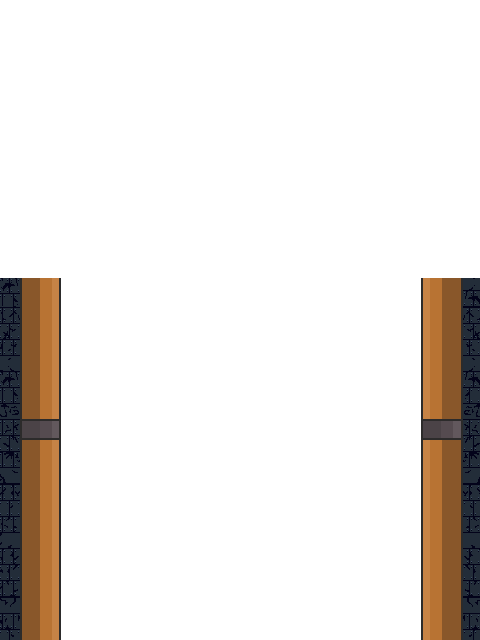
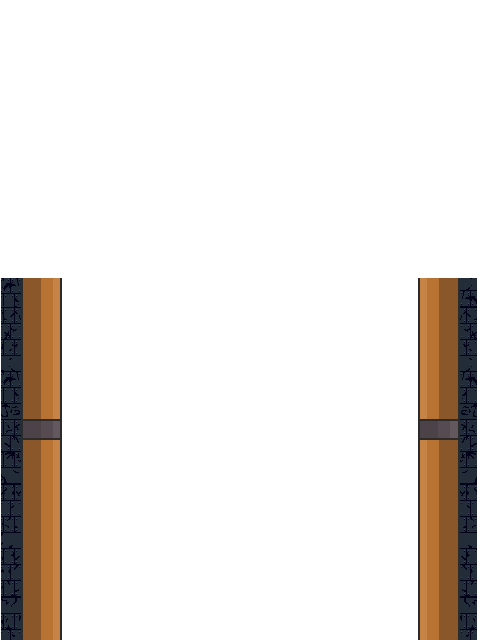
fix(bg): L2 pipe column alignment — pipes_top +1/-3 px, scripts/align_l2_pipes.py tool
Shift pipes_top.png left half +1 / right half -3 at x=240 split so its pipe
columns sit at identical x-ranges as pipes_mid.png (verified: mid left 23..59,
right 420..456 — top now matches). Eliminates the horizontal ghost where
PipesTop overlays PipesMid at the shaft cap zone.

Adds scripts/align_l2_pipes.py — measure + apply + revert + lock workflow,
reusable if alignment drifts again.

Changed region(s): [[0.8438, 0.4375, 1.0, 1.0], [0.0, 0.4375, 0.0625, 1.0]]

diff --git a/scripts/align_l2_pipes.py b/scripts/align_l2_pipes.py
@@ -1,0 +1,184 @@
+"""Align L2 shaft pipe columns across pipes_mid / pipes_top / pipes_bottom.
+
+Background: the three PNGs are stacked at x=0 in src/background.js (_drawL3Mid).
+Where they overlap vertically (cap zone, bottom zone), misaligned pipe columns
+between the PNGs show up as a horizontal ghost — the "double placement" seen
+in-game. pipes_mid.png is the reference (most visible surface); the other two
+should match its pipe x-ranges exactly.
+
+Usage:
+  python scripts/align_l2_pipes.py                    # measure + report only
+  python scripts/align_l2_pipes.py --apply            # shift top+bot to match mid; saves .bak
+  python scripts/align_l2_pipes.py --revert           # restore from .bak
+  python scripts/align_l2_pipes.py --lock             # delete .bak (confirm fix)
+"""
+from PIL import Image
+from pathlib import Path
+import shutil
+import sys
+
+ROOT = Path(__file__).resolve().parent.parent
+BG_DIR = ROOT / "PixelArt" / "backgrounds" / "level_2_shaft"
+PATHS = {
+    "mid": BG_DIR / "pipes_mid.png",
+    "top": BG_DIR / "pipes_top.png",
+    "bot": BG_DIR / "pipes_bottom.png",
+}
+# Scan row per image: pick a y where clean pipe content exists (no grey band,
+# no cap flange). Tuned from visual inspection of the three PNGs.
+SCAN_ROWS = {"mid": 400, "top": 500, "bot": 300}
+
+
+def is_orange(px):
+    r, g, b, a = px
+    if a < 128:
+        return False
+    if r < 120:
+        return False
+    if g >= r or b >= g:
+        return False
+    return (r - b) > 40
+
+
+def find_pipe_cols(img, y):
+    """Return list of (x_start, x_end) ranges of orange pipe columns at row y.
+
+    Merges gaps <=3 px so the dark ring band doesn't split a column.
+    """
+    w, _ = img.size
+    px = img.load()
+    hits = [is_orange(px[x, y]) for x in range(w)]
+    ranges = []
+    start = None
+    for x, h in enumerate(hits):
+        if h and start is None:
+            start = x
+        elif not h and start is not None:
+            ranges.append([start, x - 1])
+            start = None
+    if start is not None:
+        ranges.append([start, w - 1])
+    merged = []
+    for r in ranges:
+        if merged and r[0] - merged[-1][1] <= 3:
+            merged[-1][1] = r[1]
+        else:
+            merged.append(r)
+    return [tuple(r) for r in merged if r[1] - r[0] >= 4]
+
+
+def measure():
+    cols = {}
+    for k, p in PATHS.items():
+        img = Image.open(p).convert("RGBA")
+        y = SCAN_ROWS[k]
+        cols[k] = find_pipe_cols(img, y)
+        print(f"  {k}.png (scan y={y}): {cols[k]}")
+    print()
+
+    if len(cols["mid"]) != 2:
+        print(f"ERROR: expected 2 pipe columns in mid, got {len(cols['mid'])}")
+        return None
+    mL, mR = cols["mid"]
+    print(f"Reference (mid): left x={mL[0]}..{mL[1]} (w={mL[1]-mL[0]+1}), "
+          f"right x={mR[0]}..{mR[1]} (w={mR[1]-mR[0]+1})")
+
+    deltas = {}
+    for k in ("top", "bot"):
+        if len(cols[k]) != 2:
+            print(f"  {k}: expected 2 columns, got {len(cols[k])} — skipping")
+            continue
+        L, R = cols[k]
+        dL = L[0] - mL[0]
+        dR = R[0] - mR[0]
+        print(f"  {k}: left dx={dL:+d} (width {L[1]-L[0]+1} vs {mL[1]-mL[0]+1}), "
+              f"right dx={dR:+d} (width {R[1]-R[0]+1} vs {mR[1]-mR[0]+1})")
+        deltas[k] = (dL, dR)
+    return deltas
+
+
+def apply_shifts(deltas):
+    """Shift each half of top/bot horizontally to match mid's pipe x-positions.
+
+    Splits each image at x=W/2. Left half moves by -dL, right half by -dR.
+    Preserves outer brick patterns (they move along with their pipe).
+    """
+    for k in ("top", "bot"):
+        if k not in deltas:
+            continue
+        dL, dR = deltas[k]
+        if dL == 0 and dR == 0:
+            print(f"  {k}.png: already aligned — no change")
+            continue
+        src_path = PATHS[k]
+        bak_path = src_path.with_suffix(src_path.suffix + ".bak")
+        if not bak_path.exists():
+            shutil.copy2(src_path, bak_path)
+            print(f"  {k}.png: backup -> {bak_path.name}")
+        else:
+            print(f"  {k}.png: backup already exists at {bak_path.name}")
+
+        src = Image.open(src_path).convert("RGBA")
+        W, H = src.size
+        mid_x = W // 2
+        dst = Image.new("RGBA", src.size, (0, 0, 0, 0))
+        left_half = src.crop((0, 0, mid_x, H))
+        right_half = src.crop((mid_x, 0, W, H))
+        dst.paste(left_half, (-dL, 0), left_half)
+        dst.paste(right_half, (mid_x - dR, 0), right_half)
+        dst.save(src_path)
+        print(f"  {k}.png: shifted (left dx={-dL:+d}, right dx={-dR:+d}) and saved")
+
+
+def revert():
+    for k in ("top", "bot"):
+        src_path = PATHS[k]
+        bak_path = src_path.with_suffix(src_path.suffix + ".bak")
+        if bak_path.exists():
+            shutil.copy2(bak_path, src_path)
+            print(f"  {k}.png: restored from {bak_path.name}")
+        else:
+            print(f"  {k}.png: no backup found at {bak_path.name}")
+
+
+def lock():
+    for k in ("top", "bot"):
+        bak_path = PATHS[k].with_suffix(PATHS[k].suffix + ".bak")
+        if bak_path.exists():
+            bak_path.unlink()
+            print(f"  {k}.png: deleted {bak_path.name} (locked)")
+        else:
+            print(f"  {k}.png: no backup to delete")
+
+
+def main():
+    mode = "measure"
+    if "--apply" in sys.argv:
+        mode = "apply"
+    elif "--revert" in sys.argv:
+        mode = "revert"
+    elif "--lock" in sys.argv:
+        mode = "lock"
+
+    print(f"L2 pipe alignment — mode: {mode}\n")
+
+    if mode == "revert":
+        revert()
+        return 0
+    if mode == "lock":
+        lock()
+        return 0
+
+    print("Measuring pipe column x-ranges (reference = mid.png):")
+    deltas = measure()
+    if deltas is None:
+        return 1
+    if mode == "apply":
+        print("\nApplying shifts to top.png and bot.png:")
+        apply_shifts(deltas)
+        print("\nDone. Test in-game. If good: --lock. If bad: --revert.")
+    return 0
+
+
+if __name__ == "__main__":
+    sys.exit(main())
